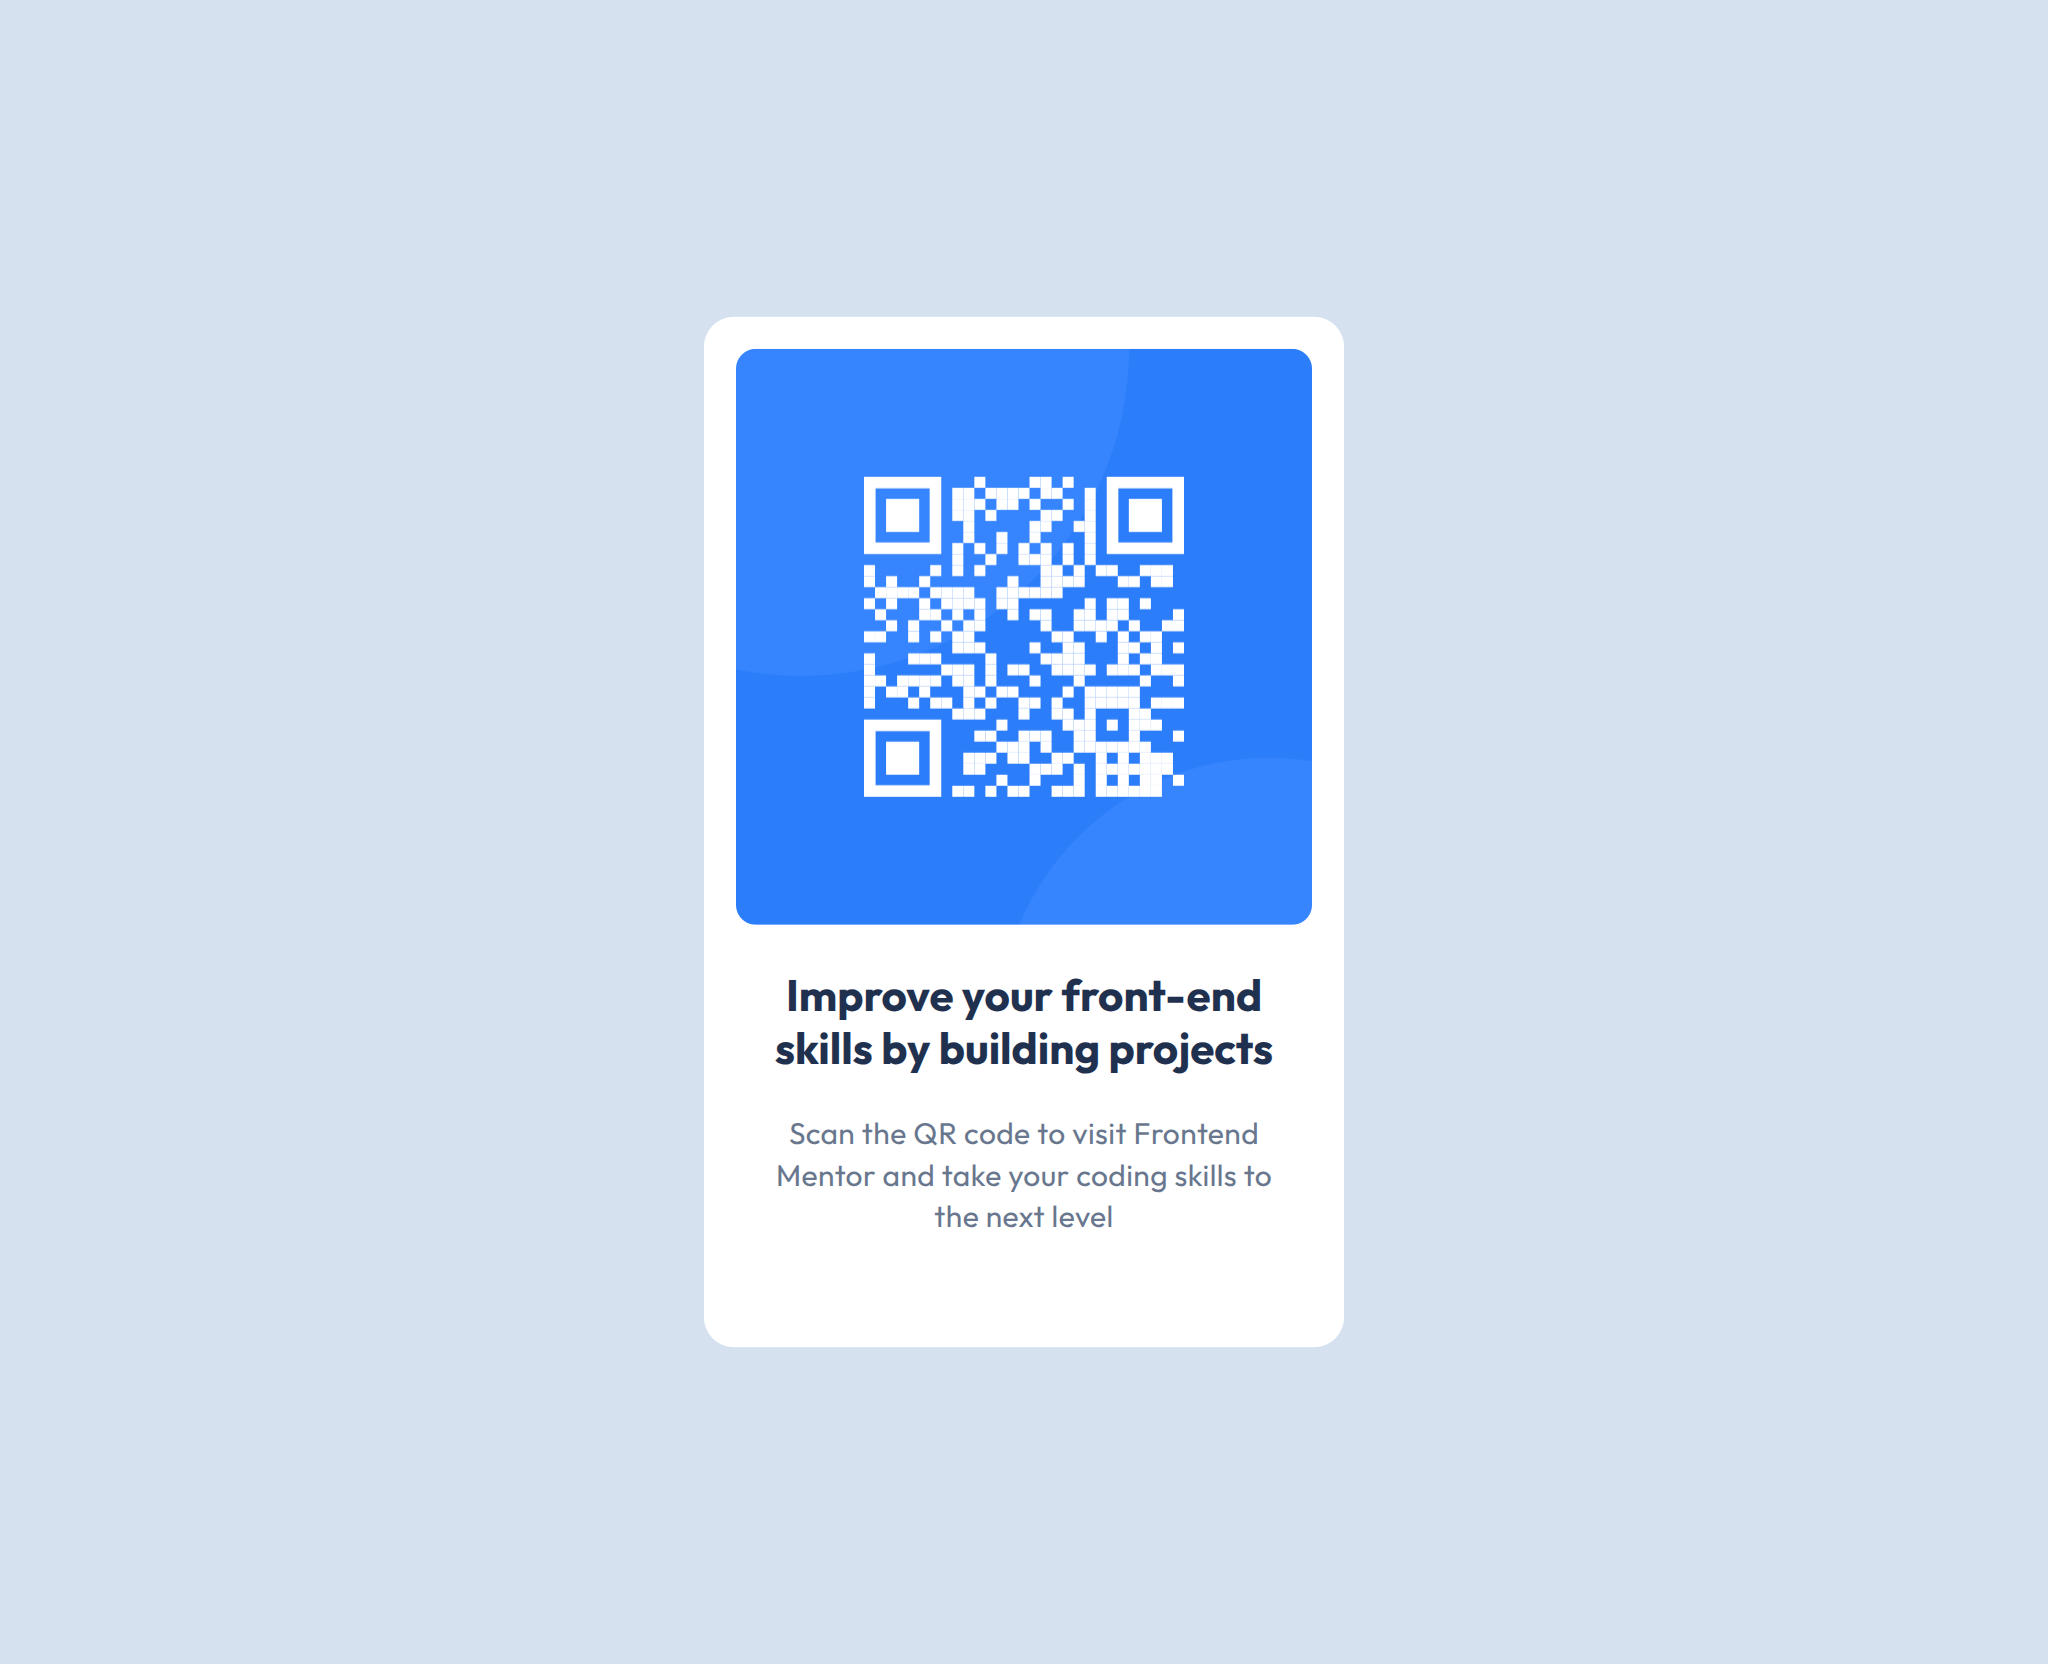
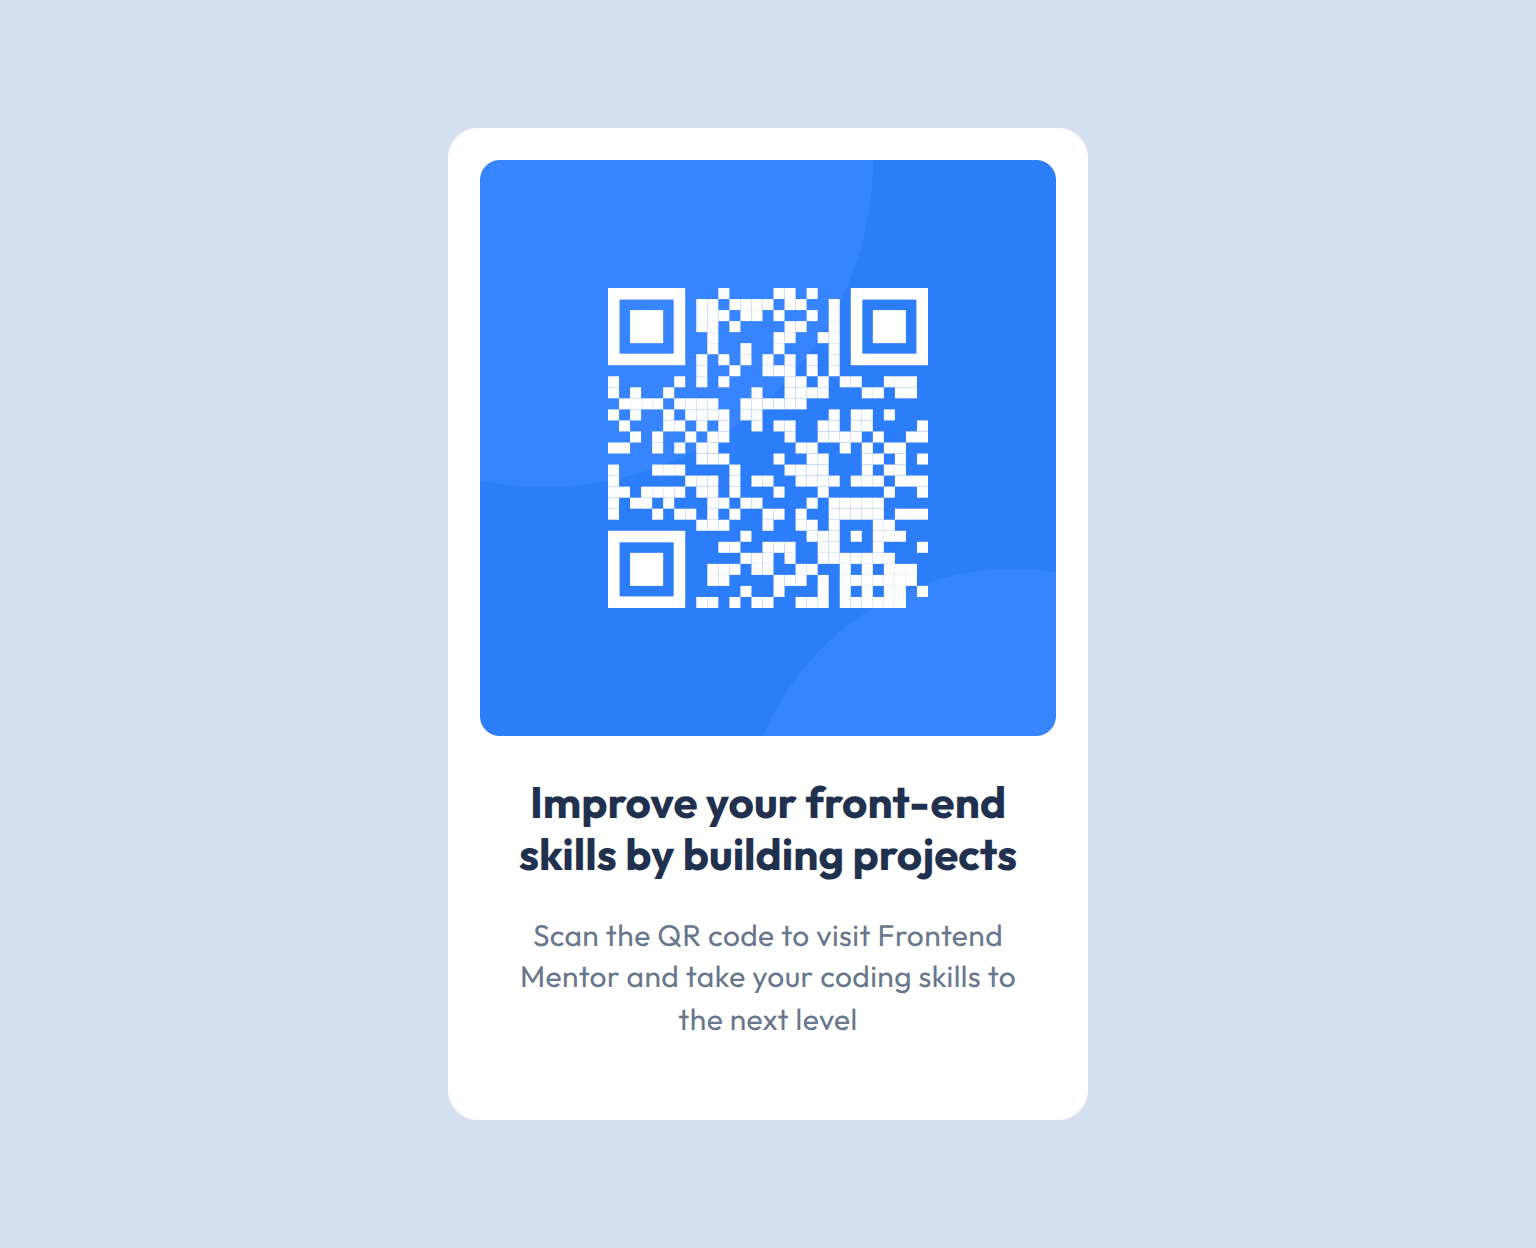
Final fix

Changed region(s): [[0.2812, 0.0938, 0.7188, 0.9062]]

diff --git a/css/styles.css b/css/styles.css
@@ -15,7 +15,6 @@
 
 html {
     font-size: 62.5%;
-    overflow-x: hidden;
 }
 
 body {
@@ -26,17 +25,15 @@ body {
     display: flex;
     justify-content: center;
     align-items: center;
-    overflow-x: hidden;
 }
 
 .card {
     border-radius: 15px;
     width: 320px;
     background: #fff;
-    padding: var(--spacing-200) var(--spacing-200) var(--spacing-500) var(--spacing-200);
     position: relative;
     z-index: 1;
-    margin: auto;
+    padding: var(--spacing-200);
 }
 
 .card__image {
@@ -48,48 +45,27 @@ body {
 
 .card__heading,
 .card__quote {
-    padding-left: var(--spacing-200);
-    padding-right: var(--spacing-200);
     position: relative;
+    margin: 0;
     z-index: 3;
+    padding: 0 var(--spacing-200);
+    text-align: center;
 }
 
 .card__heading {
-    text-align: center;
     font-size: 2.2rem;
     font-weight: 700;
     line-height: 1.2;
     letter-spacing: 0;
     color: var(--color-slate-900);
+    margin: var(--spacing-200) 0;
 }
 
 .card__quote {
-    text-align: center;
     font-size: 1.5rem;
     font-weight: 400;
     line-height: 1.4;
     letter-spacing: 0.2px;
     color: var(--color-slate-500);
-}
-
-.big-circle,
-.small-circle {
-    background: #3685ff;
-    position: absolute;
-    border-radius: 100%;
-    z-index: 2;
-}
-
-.big-circle {
-    width: 320px;
-    height: 320px;
-    right: 33.5%;
-    bottom: 66.5%;
-}
-
-.small-circle {
-    width: 260px;
-    height: 260px;
-    bottom: 11.5%;
-    left: 46.5%;
+    margin-bottom: var(--spacing-300);
 }
